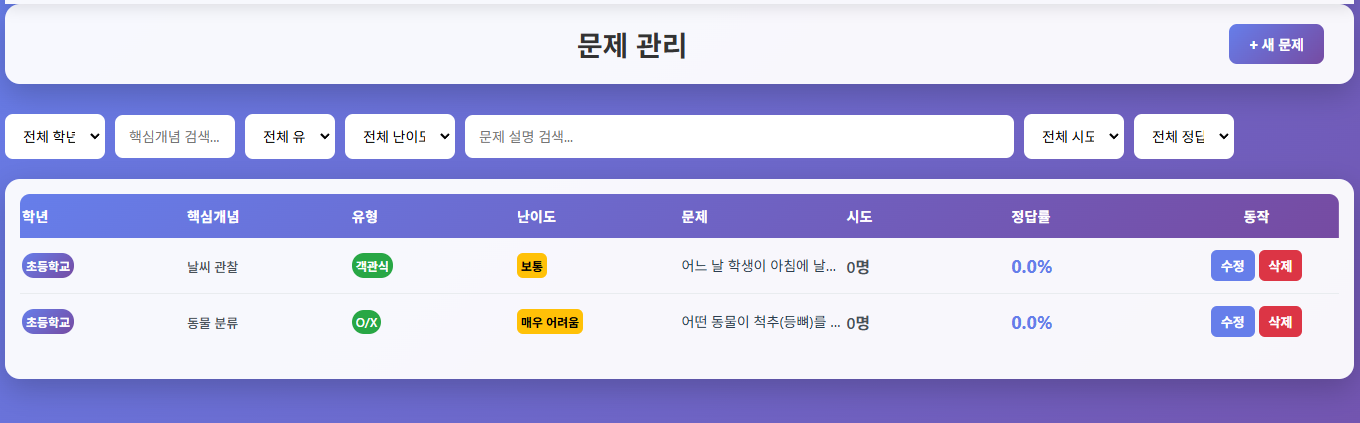
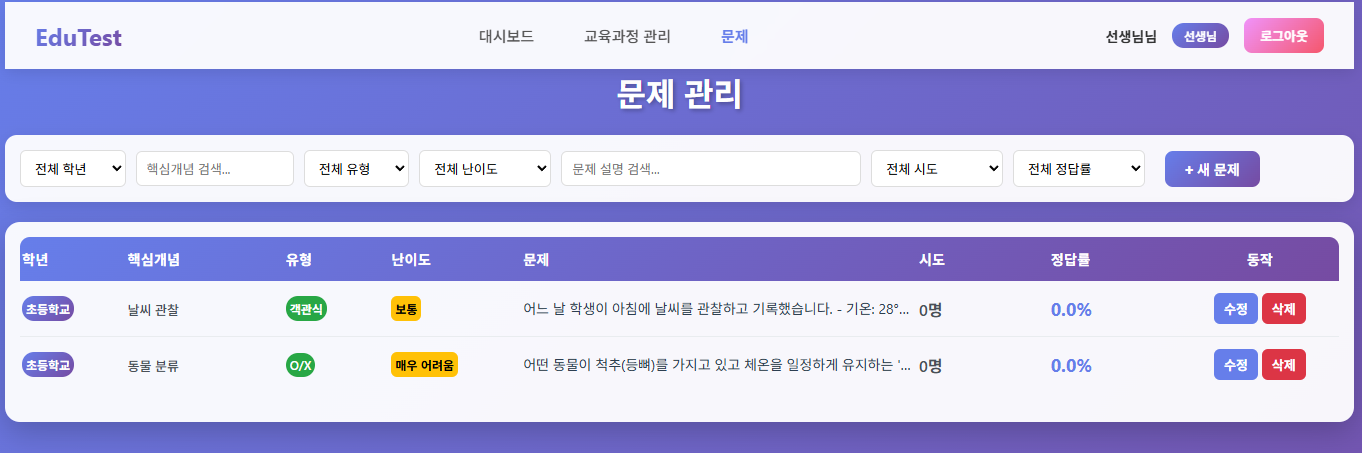
Redesign question management UI to match curriculum management style
- Restore standard management-header with centered title and button
- Wrap filters in filters-container with white background and shadow
- Remove management-header-simple and btn-create-inline styles
- Move '+ 새 문제' button back to header (consistent with other pages)
- Update filter styling with better borders and focus states
- Use flex-basis for filter widths instead of percentage
- Add flex-wrap to filters-row for better responsiveness
- Improve visual consistency across all management pages

🤖 Generated with [Claude Code](https://claude.com/claude-code)

diff --git a/frontend/src/components/Management.css b/frontend/src/components/Management.css
@@ -23,18 +23,6 @@
   text-align: center;
 }
 
-.management-header-simple {
-  text-align: center;
-  margin-bottom: 20px;
-}
-
-.management-header-simple h1 {
-  margin: 0;
-  color: white;
-  font-size: 32px;
-  text-shadow: 2px 2px 4px rgba(0, 0, 0, 0.3);
-}
-
 .btn-back {
   padding: 10px 20px;
   background: #6c757d;
@@ -274,28 +262,36 @@
 }
 
 /* Question Management Specific */
+.filters-container {
+  background: rgba(255, 255, 255, 0.95);
+  border-radius: 15px;
+  padding: 20px;
+  box-shadow: 0 10px 30px rgba(0, 0, 0, 0.2);
+  margin-bottom: 20px;
+}
+
 .filters-row {
   display: flex;
   gap: 10px;
-  margin-bottom: 20px;
-  background: rgba(255, 255, 255, 0.95);
-  padding: 15px;
-  border-radius: 12px;
-  box-shadow: 0 4px 15px rgba(0, 0, 0, 0.1);
   align-items: center;
-  width: 100%;
-  max-width: 100%;
-  box-sizing: border-box;
+  flex-wrap: wrap;
 }
 
 .filters-row select,
 .filters-row input {
-  padding: 8px 10px;
-  border: 1px solid #ddd;
-  border-radius: 6px;
-  font-size: 13px;
+  padding: 10px 12px;
+  border: 2px solid #e0e0e0;
+  border-radius: 8px;
+  font-size: 14px;
   background: white;
   box-sizing: border-box;
+  transition: border-color 0.2s;
+}
+
+.filters-row select:focus,
+.filters-row input:focus {
+  outline: none;
+  border-color: #667eea;
 }
 
 .filters-row select {
@@ -304,66 +300,32 @@
 
 /* Match table column widths - proportional to table */
 .filter-level {
-  width: 8%;
-  min-width: 80px;
-  flex-shrink: 0;
+  flex: 0 0 100px;
 }
 
 .filter-concept {
-  width: 12%;
-  min-width: 100px;
-  flex-shrink: 0;
+  flex: 0 0 120px;
 }
 
 .filter-type {
-  width: 8%;
-  min-width: 80px;
-  flex-shrink: 0;
+  flex: 0 0 100px;
 }
 
 .filter-difficulty {
-  width: 10%;
-  min-width: 90px;
-  flex-shrink: 0;
+  flex: 0 0 120px;
 }
 
 .filter-question {
-  width: 30%;
+  flex: 1 1 200px;
   min-width: 150px;
-  max-width: 300px;
-  flex-shrink: 1;
 }
 
 .filter-attempt {
-  width: 10%;
-  min-width: 90px;
-  flex-shrink: 0;
+  flex: 0 0 110px;
 }
 
 .filter-rate {
-  width: 10%;
-  min-width: 90px;
-  flex-shrink: 0;
-}
-
-.btn-create-inline {
-  padding: 8px 20px;
-  background: linear-gradient(135deg, #667eea 0%, #764ba2 100%);
-  color: white;
-  border: none;
-  border-radius: 8px;
-  cursor: pointer;
-  font-size: 14px;
-  font-weight: 600;
-  transition: all 0.2s;
-  white-space: nowrap;
-  margin-left: 10px;
-  flex-shrink: 0;
-}
-
-.btn-create-inline:hover {
-  transform: translateY(-2px);
-  box-shadow: 0 5px 15px rgba(102, 126, 234, 0.4);
+  flex: 0 0 110px;
 }
 
 .questions-list {
@@ -510,10 +472,9 @@
   }
 
   .filters-row select,
-  .filters-row input,
-  .btn-create-inline {
-    width: 100% !important;
-    margin-left: 0;
+  .filters-row input {
+    flex: 1 1 100%;
+    width: 100%;
   }
 }
 

diff --git a/frontend/src/components/QuestionManagement.jsx b/frontend/src/components/QuestionManagement.jsx
@@ -261,11 +261,15 @@ const QuestionManagement = () => {
       <Navbar />
 
       <div className="management-content">
-        <div className="management-header-simple">
+        <div className="management-header">
           <h1>문제 관리</h1>
+          <button onClick={() => navigate('/question-create')} className="btn-create">
+            + 새 문제
+          </button>
         </div>
 
-        <div className="filters-row">
+        <div className="filters-container">
+          <div className="filters-row">
           <select value={filterLevel} onChange={(e) => setFilterLevel(e.target.value)} className="filter-level">
             <option value="">전체 학년</option>
             {levels.map((l) => (
@@ -315,10 +319,7 @@ const QuestionManagement = () => {
             <option value="high">90% 이상</option>
             <option value="low">40% 이하</option>
           </select>
-
-          <button onClick={() => navigate('/question-create')} className="btn-create-inline">
-            + 새 문제
-          </button>
+        </div>
         </div>
 
         {error && <div className="error-message">{error}</div>}
